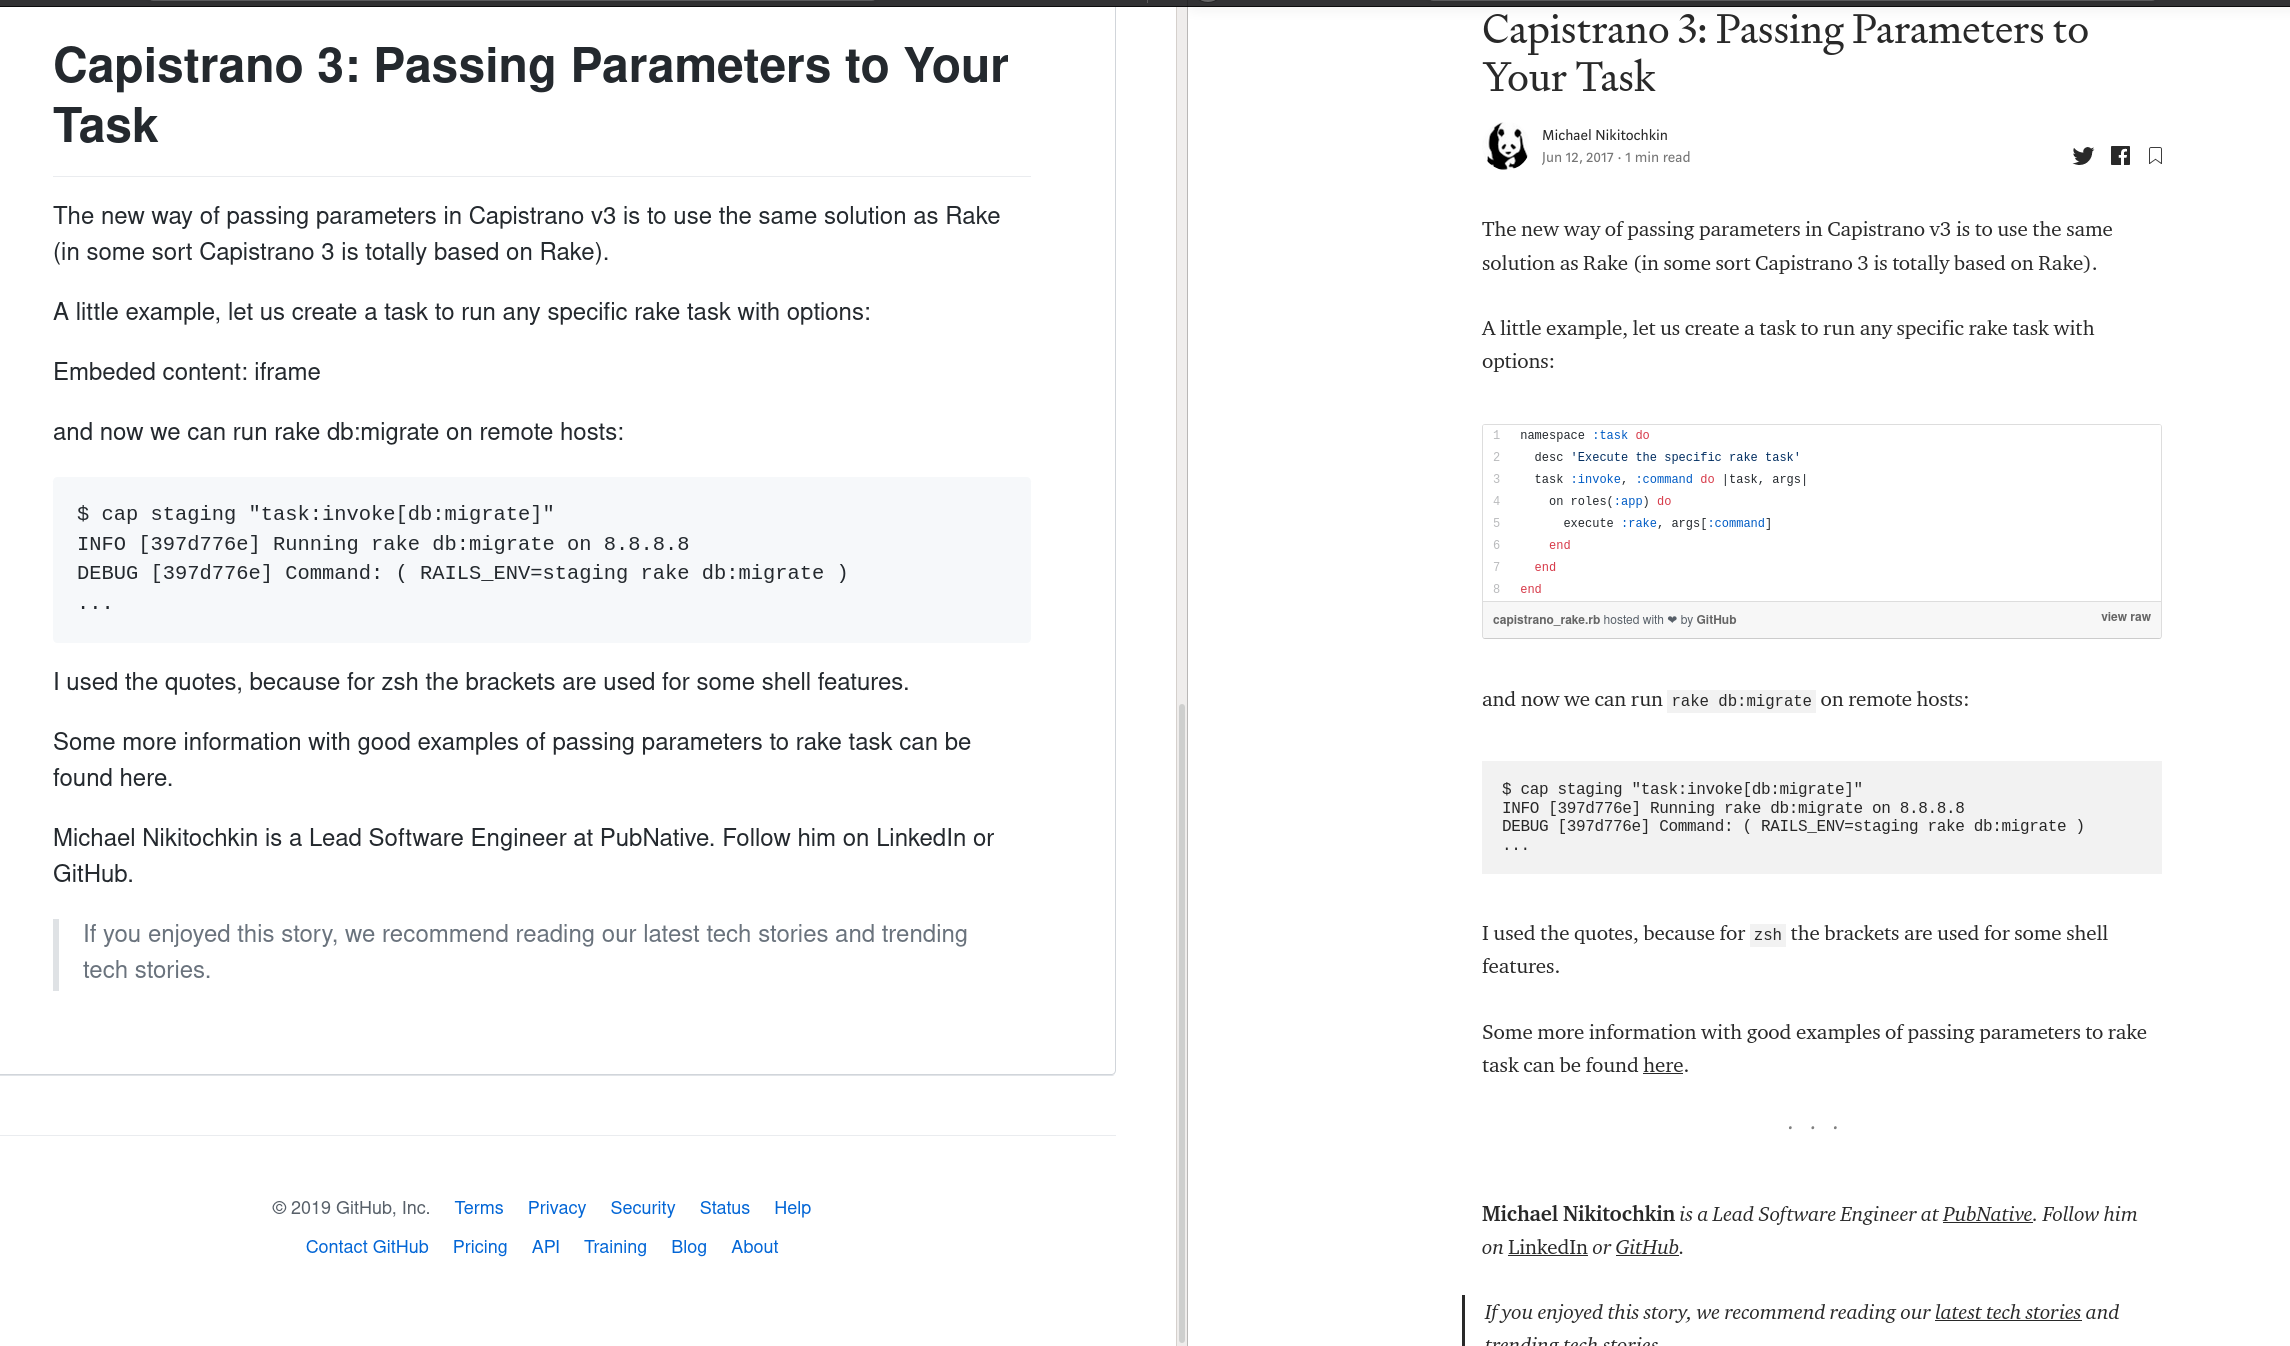
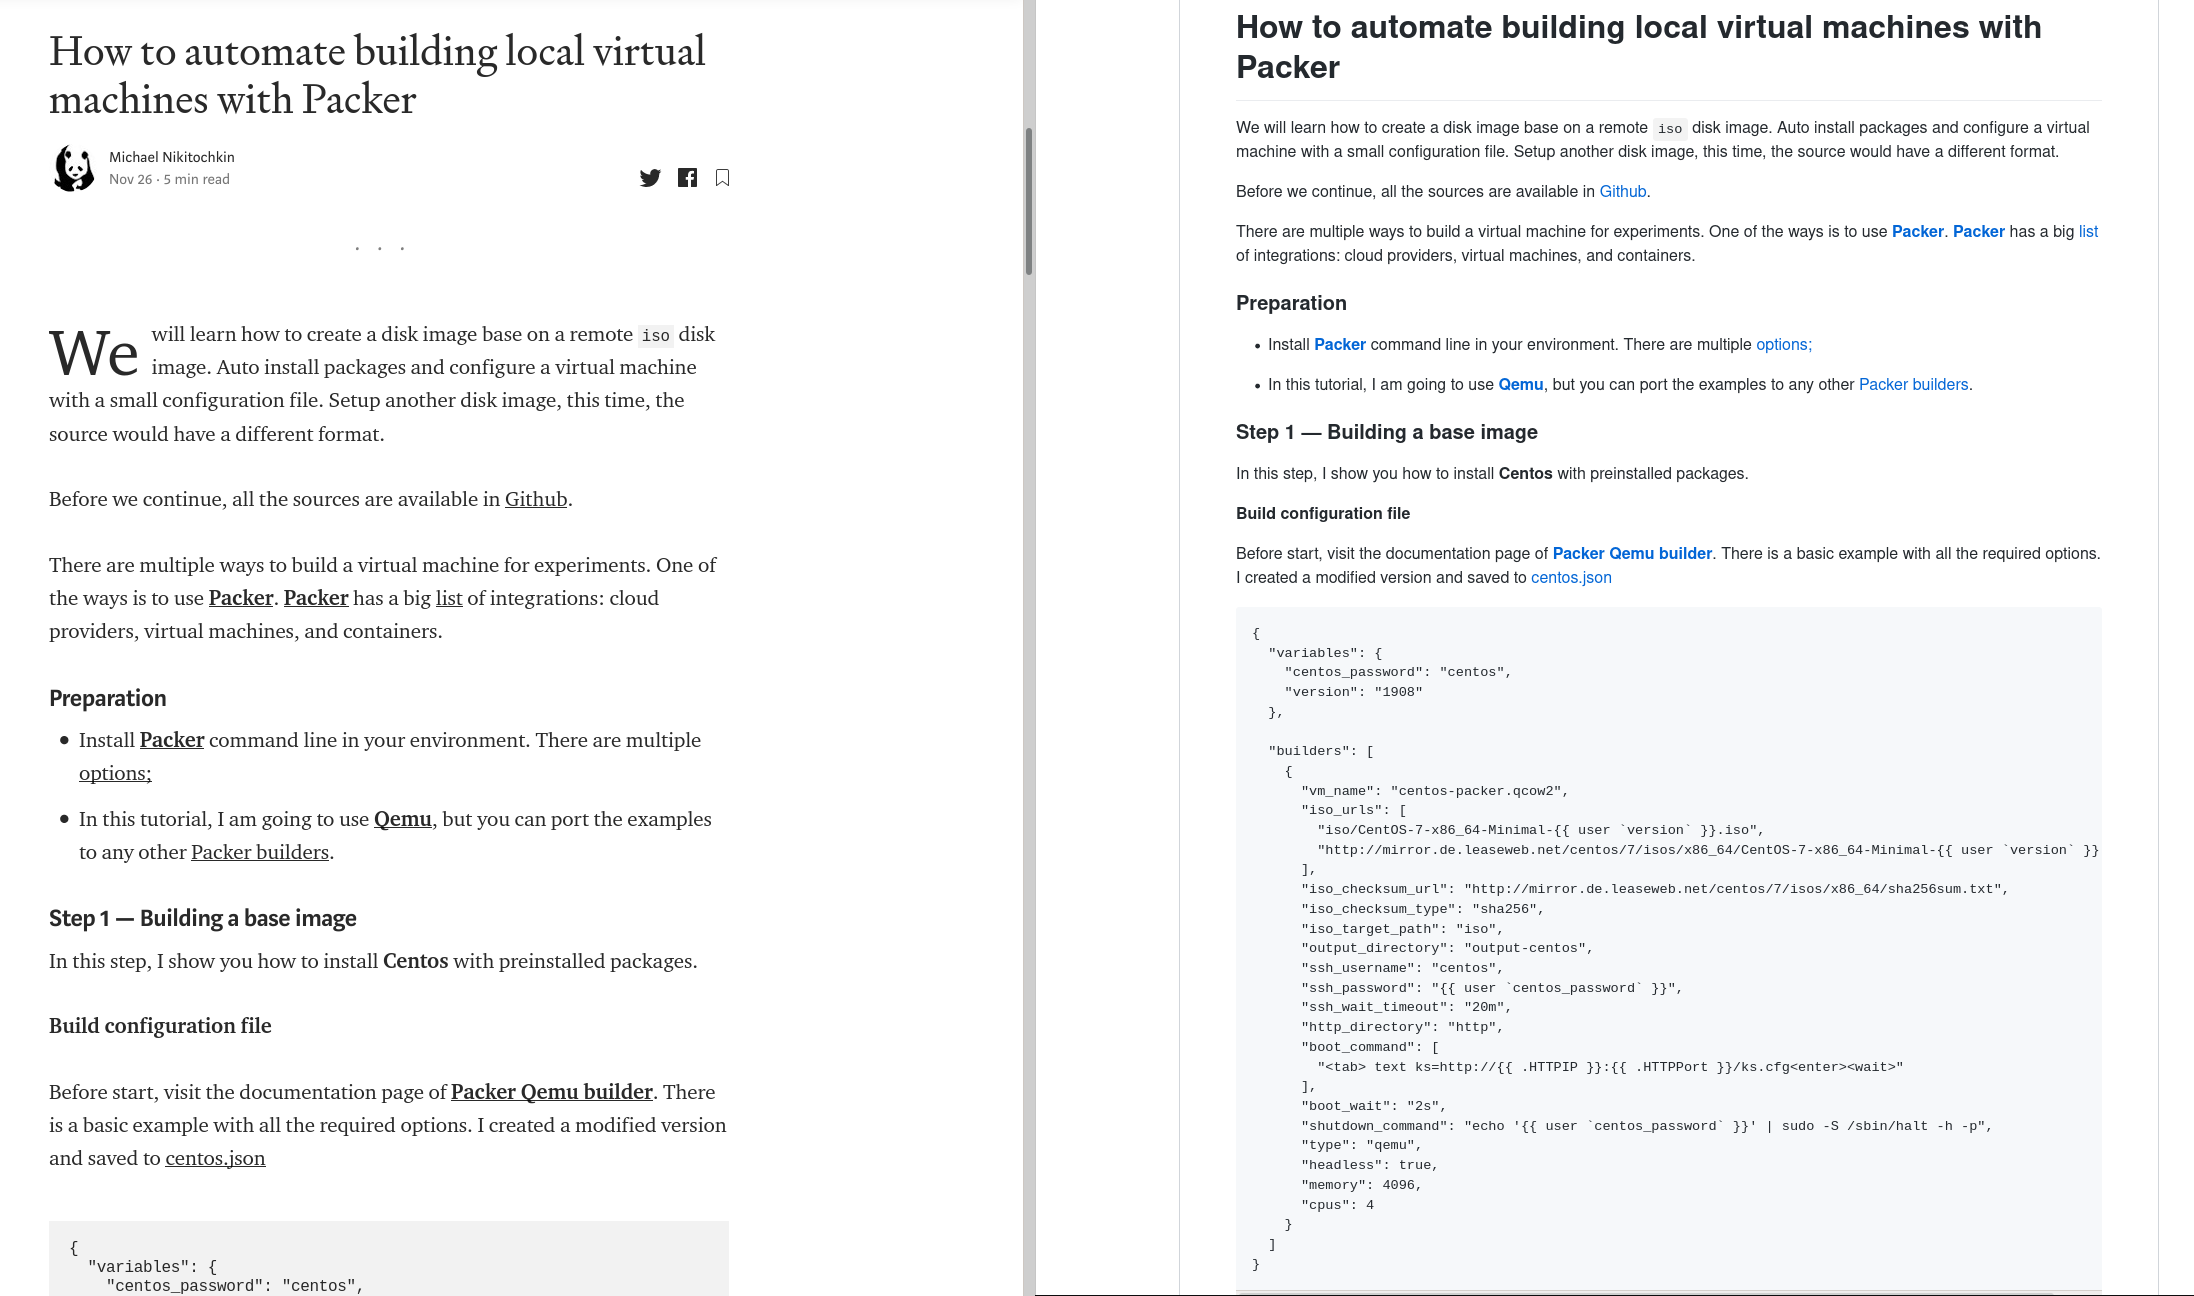
Update image with new markdown feature

diff --git a/README.md b/README.md
@@ -56,7 +56,7 @@ In the result directory, you can find 2 format of files: `.json` and `.md`.
 
 ## Markdown
 
-Example of exported document (Exported Markdown vs Origianl Medium):
+Example of exported document (Original Medium post vs Exported Markdown):
 
 ![](./img/compare.png)
 
